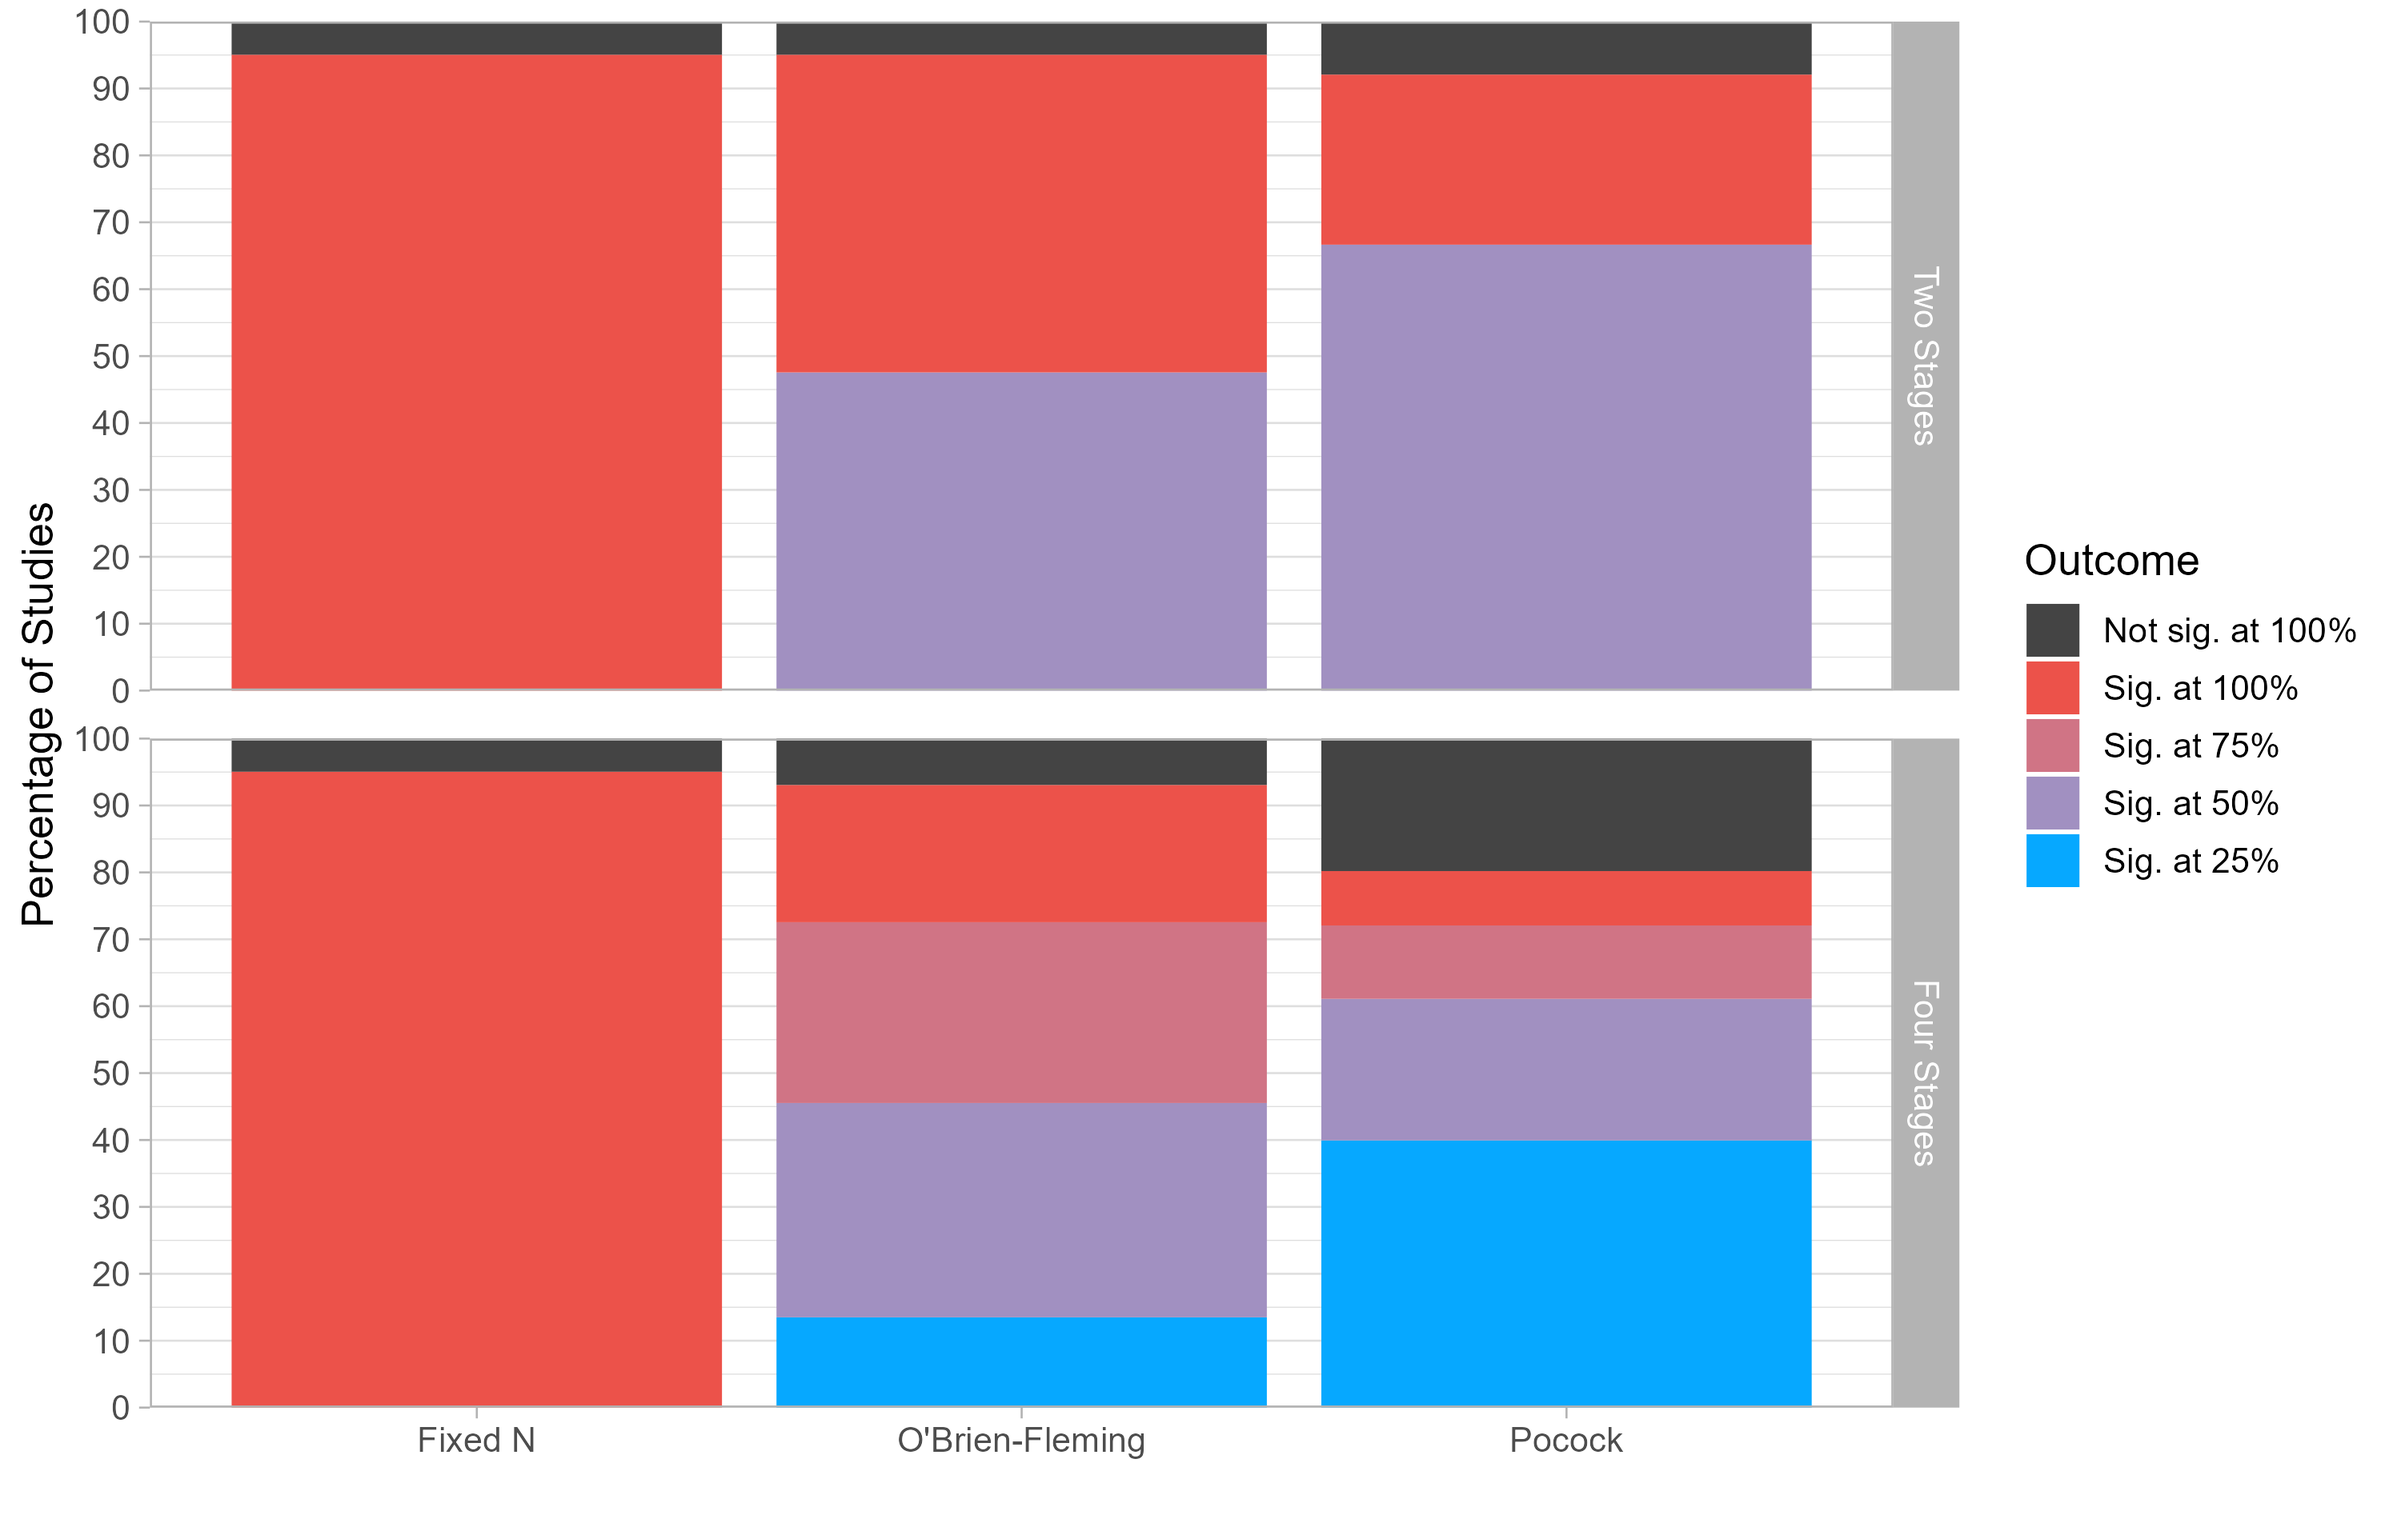
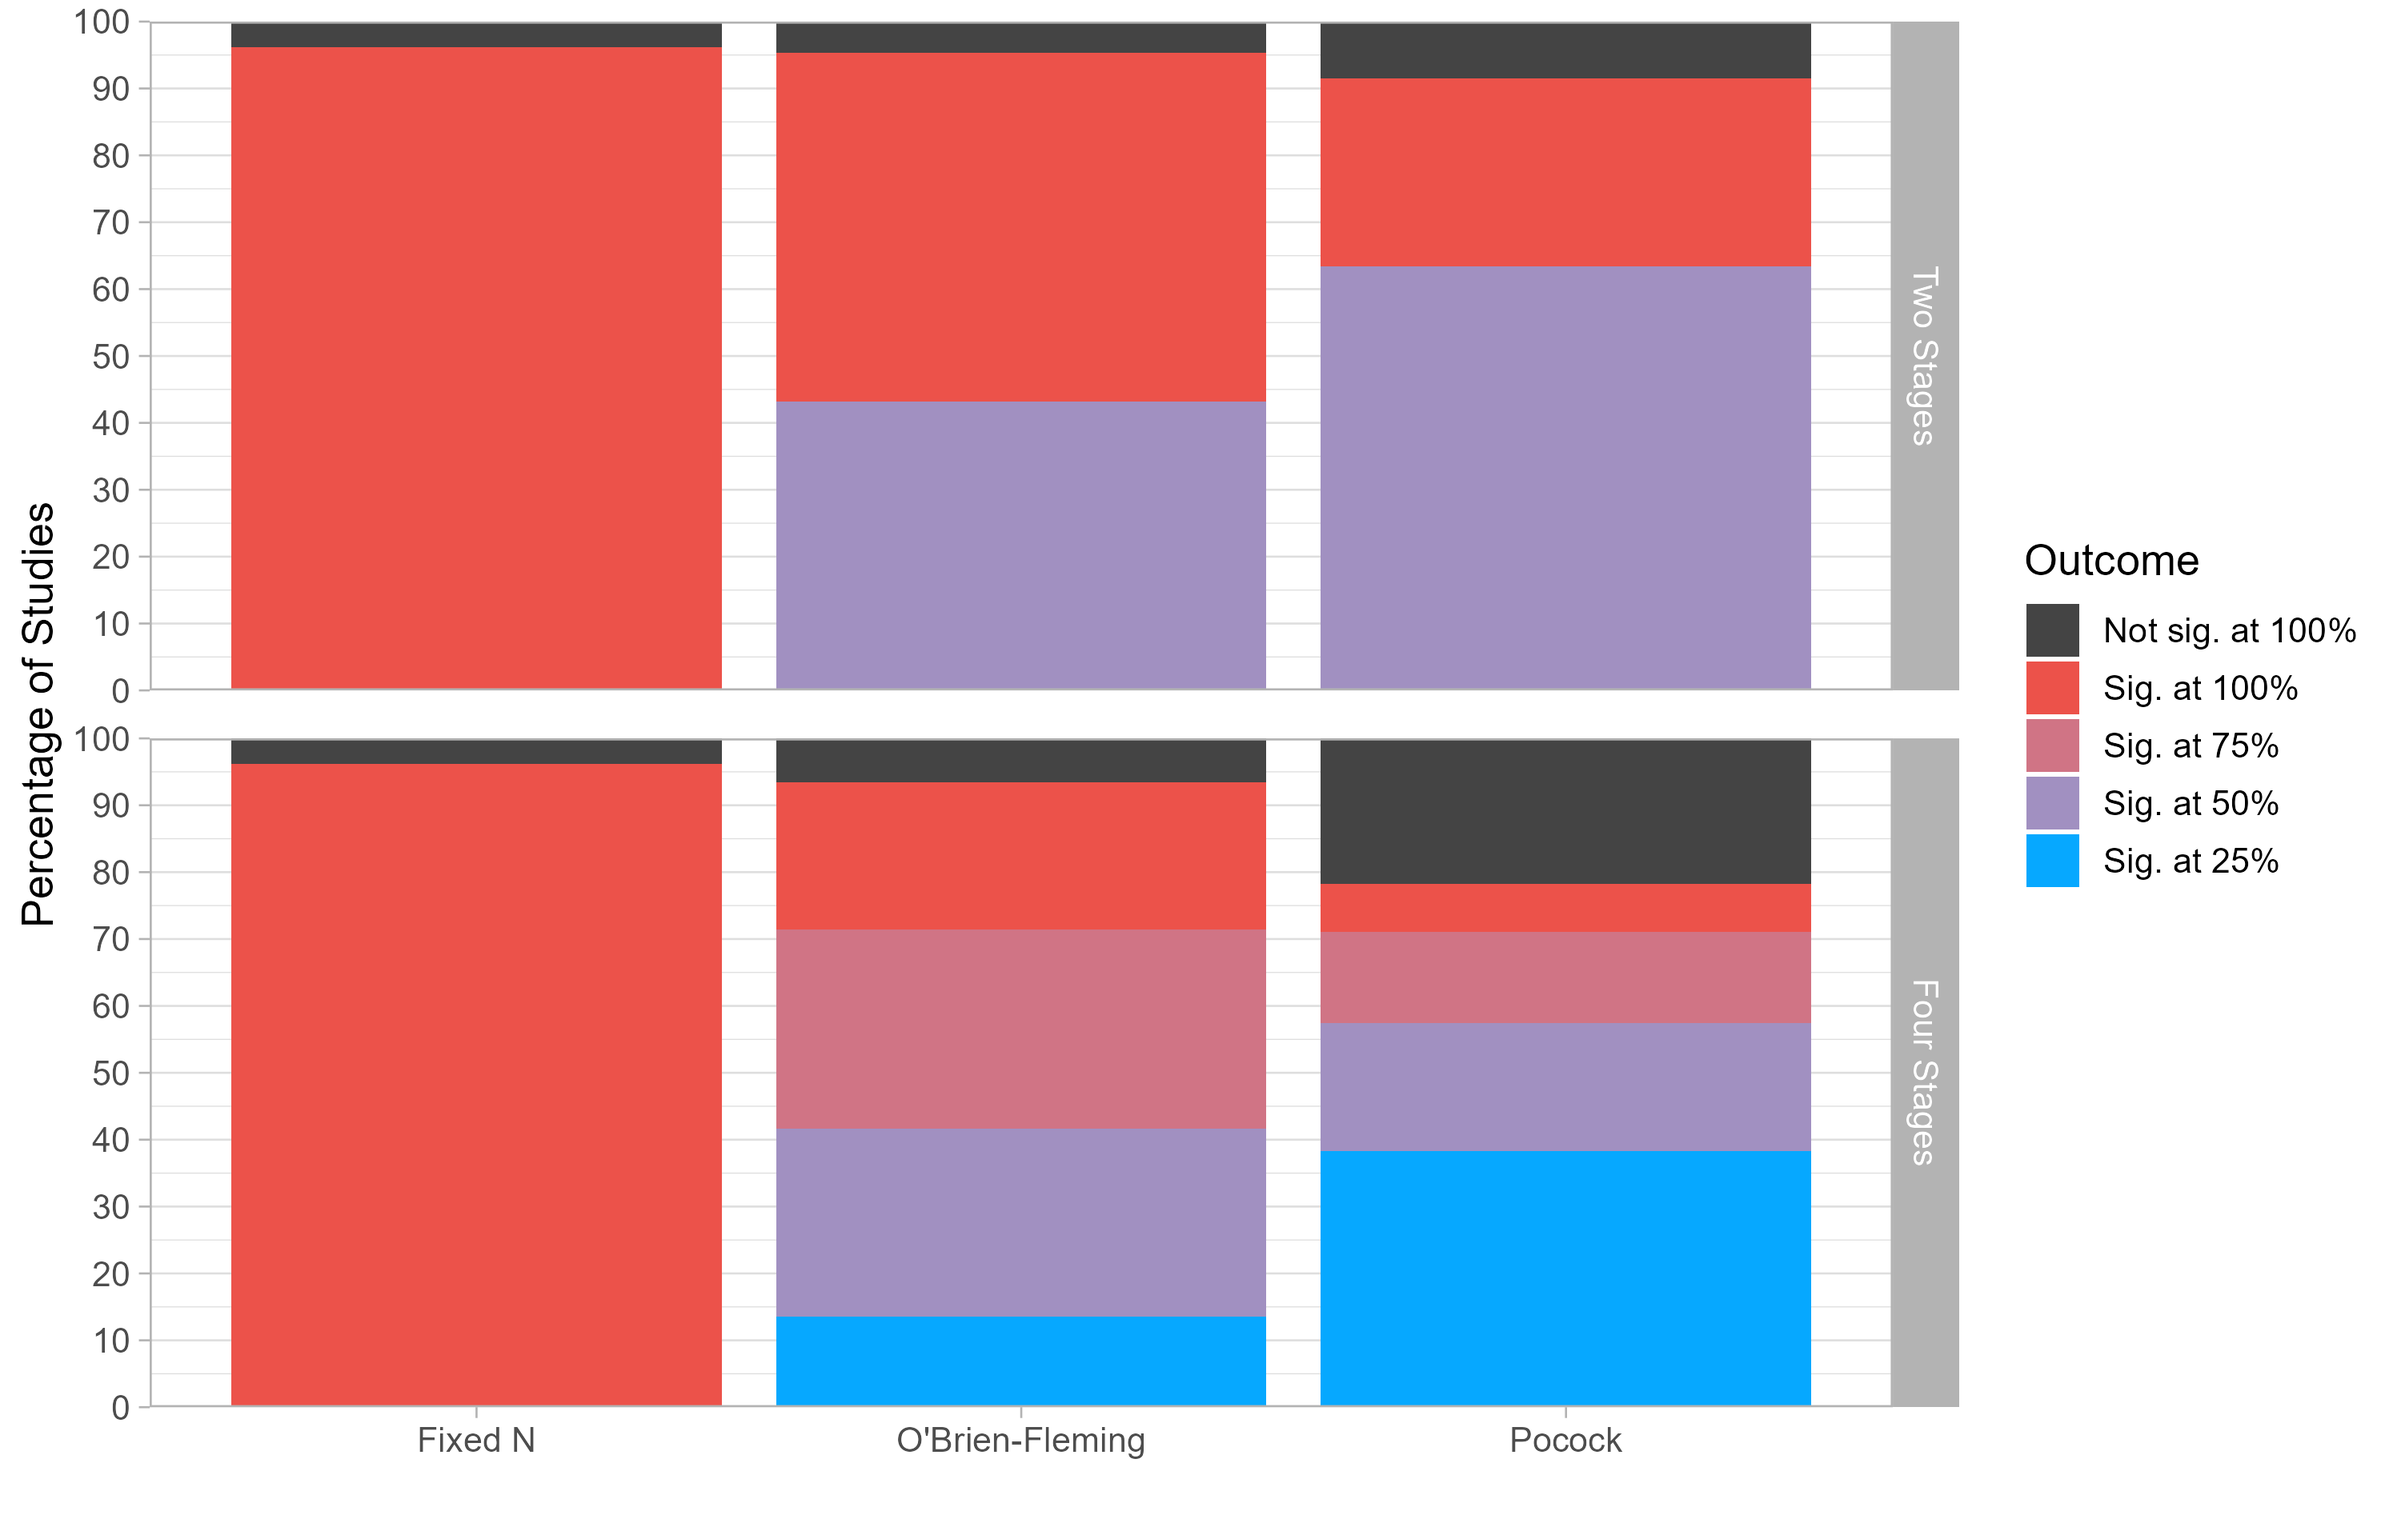
2024-04-11: Updated blog posts and added TIFU

diff --git a/content/post/more-efficient-studies-group-sequential-designs/index.md b/content/post/more-efficient-studies-group-sequential-designs/index.md
@@ -30,6 +30,8 @@ projects: []
 
 ---
 
+NOTE: Due to two mistakes that previously existed in this research, some of the numbers originally described in this blog post were incorrect. This post was updated on April 11th 2024 to reflect the updated (and now correct) numbers. I apologize for this error. If you want to learn more, [check out this other blog post]({{< ref "/post/tifu" >}}).
+
 In previous blog posts, we have discussed [a core issue of power analysis]({{< ref "/post/is-power-analysis-useless" >}}) (it requires researchers to predict the effect size that their experiment will yield, something that is often impossible to do accurately) and [a costly solution to this issue]({{< ref "/post/making-power-analysis-informative-again" >}}) (powering studies for the smallest effect size that researchers are interested in detecting or can afford to detect).
 
 In this third blog post, we are going to discuss a better solution to the problem of sample size determination: Group sequential designs. These designs can be powered to detect the smallest effect size researchers care about... and will stop data collection earlier whenever the effect is larger than expected.
@@ -77,19 +79,17 @@ Our paper reports simulations showing that, in most circumstances, PRIADs are mo
 * As long as researchers have more than 25% power to detect an effect, some PRIADs can achieve equivalent power while collecting a smaller number of observations.
 * At higher levels of statistical power (e.g., 55%), all the PRIADs that we discuss in the paper are more efficient.
 
-This is a theoretical result, but would these savings materialize in practice? To answer this question, we conducted a re-analysis of all the pre-registered studies with open data published in JCR. We were able to find 104 studies, and managed to reproduce the results of 101 of them. We simulate, for each study, what would have happened if researchers had used a PRIAD rather than a Fixed N study. We consider the four kinds of "off-the-shelf" PRIADs that we discuss in the paper.
+This is a theoretical result, but would these savings materialize in practice? To answer this question, we conducted a re-analysis of all the pre-registered studies with open data published in JCR. We were able to find 223 studies, and managed to reproduce the results of 212 of them. We simulate, for each study, what would have happened if researchers had used a PRIAD rather than a Fixed N study. We consider the four kinds of "off-the-shelf" PRIADs that we discuss in the paper.
 
 The figure below shows the outcome of the studies. Using Fixed N designs, researchers always collected the full sample, and found a significant result in 95% of the studies. If the researchers had used PRIADs instead, they would have often stopped data collection much earlier: In half of the studies, group sequential designs would have found a significant result after collecting only half the data!
 
 ![png](files/Figure5.png)
 
-What about statistical power? The figure shows that most of the studies that reached significance with a Fixed N study would have also reached significance with a group sequential design (between 84% and 100%, depending on the type of PRIAD) .
+What about statistical power? The figure shows that most of the studies that reached significance with a Fixed N study would have also reached significance with a group sequential design (between 81% and 99%, depending on the type of PRIAD) .
 
 Finally, what does this imply for cost-savings? Let's be conservative and go with a sizeable penalty for non-significance: Whenever a researcher fails to find a significant result with a PRIAD, we will assume they will re-run the study with twice the sample size. This means that a "failed" group sequential design results into cost-savings of minus 200%. 
 
-The second figure shows that, even under this conservative assumption, the authors of the studies in our re-analysis would have saved between 32% and 43% of the original participant counts!
-
-![png](files/Figure6.png)
+Our analyses show that, even under this conservative assumption, the authors of the studies in our re-analysis would have saved between 20% and 29% of the original participant counts.
 
 ### They Allow to Save Resources When Conducting Pilot Studies
 

diff --git a/content/post/tifu/index.md b/content/post/tifu/index.md
@@ -50,9 +50,9 @@ To identify pre-registered studies with open data in JCR, we used a software cal
 
 Now, Google Scholar isn't smart enough to process a sentence like this. Instead, you have to type a query that describes these criteria. Based on my experience querying databased and other search engines, I wrote the following query: 
 
-source:"Journal of Consumer Research" (OSF | ResearchBox | "Open Science Framework") & (pre-reg* | prereg* | aspredicted* ).
+<div style="text-align: center;"><i>source:"Journal of Consumer Research" (OSF | ResearchBox | "Open Science Framework") & (pre-reg* | prereg* | aspredicted* )<i/></div>
 
-If you have never seen some of these symbols before, the pipe symbol *|* is the logical operator OR, the ampersand *&* is the logical operator AND, and the star symbol at the end of a string XYZ means "a words that start with XYZ, followed by any number of characters". Easy, right? Indeed, all the papers returned by this query mentioned pre-registrations, and mentioned OSF/ResearchBox. We thought the query had succeeded in finding all the papers we wanted to find.
+If you have never seen some of these symbols before, the pipe symbol ** | ** is the logical operator OR, the ampersand ** & ** is the logical operator AND, and the star symbol at the end of a string XYZ means "a words that start with XYZ, followed by any number of characters". Easy, right? Indeed, all the papers returned by this query mentioned pre-registrations, and mentioned OSF/ResearchBox. We thought the query had succeeded in finding all the papers we wanted to find.
 
 As we would soon discover after our colleague's remark though, [Google Scholar has its own way of processing queries](https://library.uregina.ca/c.php?g=606135&p=4201992). In Google Scholar world, the star symbol doesn't exist... and the *-* symbol (like the one that appears in "pre-reg" for instance) means a negation (i.e., papers that contain "pre" but not "reg"). Long story short, the query that we used definitely did not return all the JCR papers containing pre-registered studies with open data. In fact, it missed approximately half of them.
 
@@ -76,5 +76,3 @@ Looking back on these mistakes, I see three valuable lessons for myself (and may
 1) Don't assume things work in a certain way. Because of Google Scholar's superficial similarity with Google and other search engines, I assumed that it would process queries in the same way. It did not
 2) When you write code from scratch, write tests. This is what real programmers do when they write code: They use inputs for which they know what the output should be, and check that the functions they have written return the correct outputs when given these inputs. Writing tests would have allowed me to catch the numerator/denominator error.
 3) Share as much as possible about your work. These mistakes were discovered because other researchers (i) accessed our OSF repository, (ii) downloaded the list of papers we had compiled and (iii) alerted us that their paper was missing. If we hadn't posted our code and methods, or if we hadn't shared pre-prints of our work, these mistakes would have probably gone unnoticed (or would have been discovered much later).
-
-P.S.: If you follow my blog and social media activities, you might have seen that I have shared the previous (and thus incorrect) results of this paper in various places. I'm going to tweet corrections, and correct the blog posts I wrote on [the results themselves]({{< ref "/post/more-efficient-studies-group-sequential-designs" >}}) and on [the process of reproducing JCR papers]({{< ref "/post/reproducing-jcr-papers" >}})

diff --git a/content/post/reproducing-jcr-papers/index.md b/content/post/reproducing-jcr-papers/index.md
@@ -30,16 +30,18 @@ projects: []
 
 ---
 
+NOTE: Due to a mistake I made when searching for pre-registered studies with open data in JCR, the numbers mentioned in a previous version of this post were incorrect. This post was updated on April 11th 2024 to reflect the updated (and now correct) numbers. I apologize for this error. If you want to learn more, [check out this other blog post]({{< ref "/post/tifu" >}}).
+
 My co-author Nick Reinholtz and I have recently attempted ([as part of an effort to validate the cost-effectiveness of method we are writing a paper on](https://papers.ssrn.com/sol3/papers.cfm?abstract_id=4561485)) to reproduce the results of all pre-registered studies with open data we could find in the Journal of Consumer Research. What did we learn? A few interesting things!
 
 ## Lesson 1: The Data Can Be Available... Just Not to You
-We searched for all articles published in JCR which contain at least one of the keywords “osf”, “Open Science Framework” or “researchbox” (to identify posted datasets) and at least one of the keywords “pre-reg*”, “prereg*”, or “aspredicted” (to identify pre-registrations). This search returned 37 papers: Exciting!
+We searched for all articles published in JCR which contain at least one of the keywords “osf”, “Open Science Framework” or “researchbox” (to identify posted datasets) and at least one of the keywords “pre-registration”, “preregistration”, "pre-registered", "preregistered", or “aspredicted” (to identify pre-registrations). This search returned 107 papers: Exciting!
 
 When we took a closer look at this set however, we found out that a few papers mentioned that the data was available on an OSF/ResearchBox repository... but did not share a link. A mistake? No, a literal interpretation of the [JCR Data Policy](https://consumerresearcher.com/jcrs-data-policy-in-practice), which requires that the data is made accessible to the Editor and Associate Editor... but not to the readers of the journal.
 
 I must admit I was a bit surprised: To me, the main barrier to sharing data is that it takes time and effort to gather your data files, generate codebooks, and upload them somewhere. But once you've done it for one person, what's the cost of making it accessible to the public?
 
-In the end, we only had 25 papers with data. Bummer... but less work for us I guess?
+In the end, we had 51 papers with data. Bummer... but less work for us I guess?
 
 ## Lesson 2: Many Pre-Registrations Are Under-Specified, And Deviations Are Rarely Acknowledged
 
@@ -58,6 +60,6 @@ Descriptions of analyses are, as it turns out, highly imprecise: In many cases, 
 
 ## Lesson 4: Things Are Getting Better
 
-As an open-science enthusiast, I was honestly a bit bummed to find out that out of all the research ever published in JCR, we could "only" find 25 papers with at least one pre-registered study and open data. 
+As an open-science enthusiast, I was honestly a bit bummed to find out that out of all the research ever published in JCR, we could "only" find 51 papers with at least one pre-registered study and open data. 
 
-The silver lining is that things are improving. The first paper with open data and pre-registration was published in 2020. In 2023, there were 11 such papers. Progress!
+The silver lining is that things are improving. The first paper with at least one pre-registered sutdy with open data was published in 2019. In 2023, there were 25 such papers. Progress!
